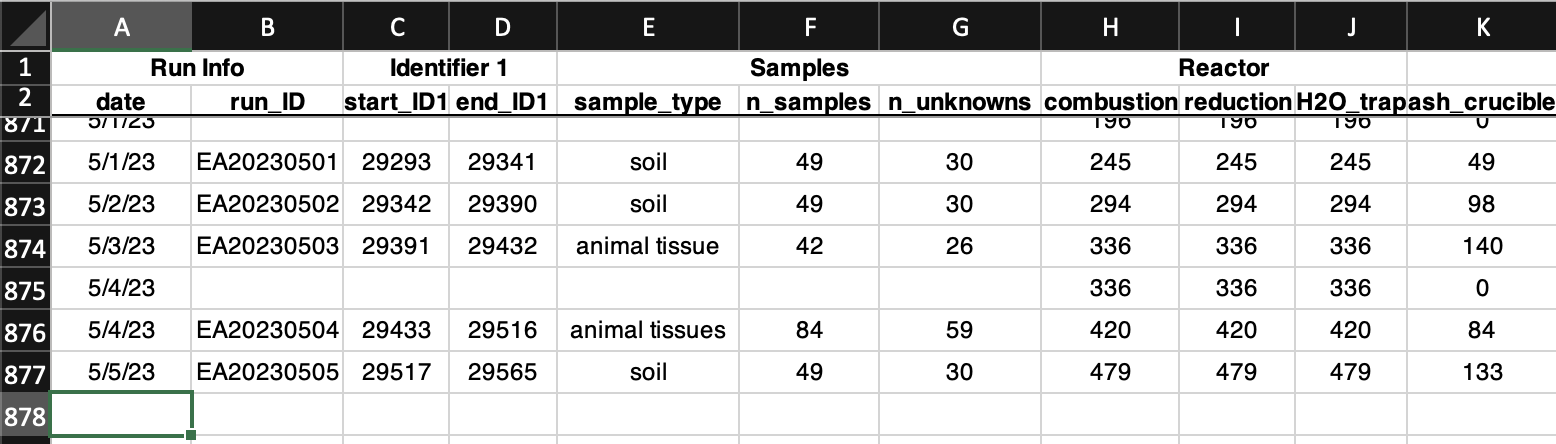
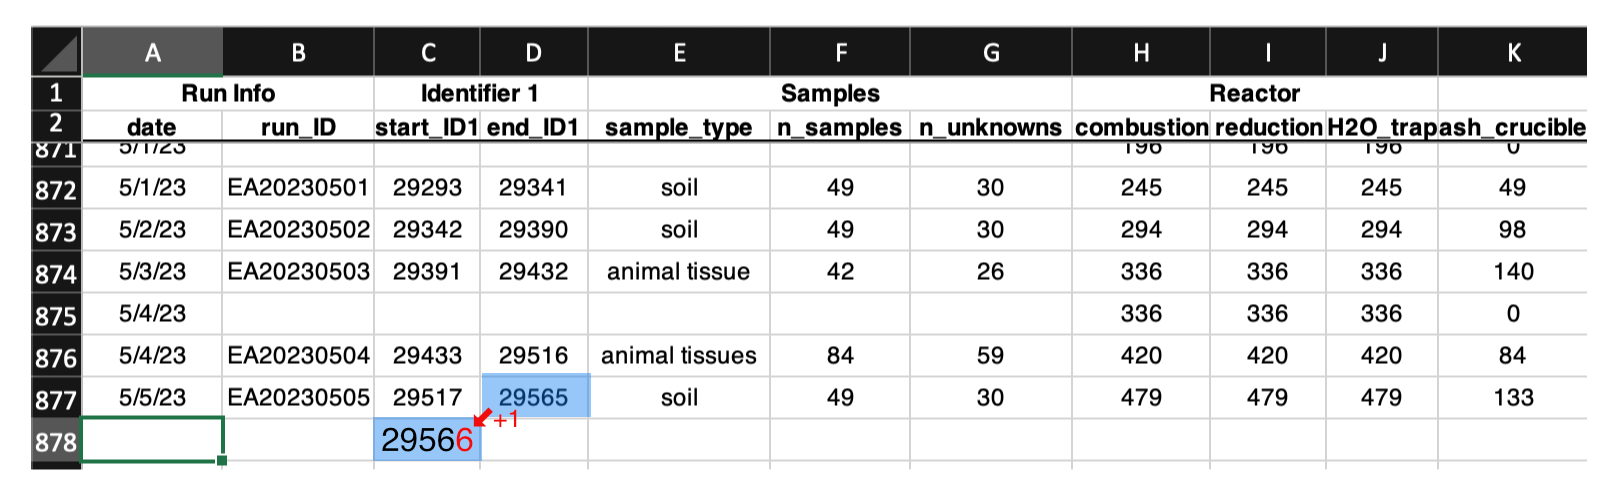
working on sequence

diff --git a/isodat/isodat_sequence.md b/isodat/isodat_sequence.md
@@ -8,9 +8,6 @@ Please contact the Stable Isotope Ecology Laboratory Technical Director with any
 
 ## Supplies
 
-- [ ] Gloves
-- [ ] Forceps
-- [ ] Tray of fully prepared samples
 - [ ] Typed weight sheet using the one of *SIELO weigh sheet templates* 
 
 *** 
@@ -21,11 +18,20 @@ An *Isodat sequence* file is required for all analyses on the Costech 4010, Ther
 
 ## Instrument Run Logs
 
+- [ ] Finished
+
 Each instrument has an *Instrument Run Log* excel file located in `~/Box Sync/Instrument Run Logs/`. There are two log files, one for each Delta V+ mass spectrometer. **All analyses** must be entered into the appropriate *Instrument Run Log*.
 
- ![](../figures/isodat/run_log.png)
- *run log*
+Setting up an Isodat sequence begins by starting a new row in the appropriate *Instrument Run Log*. Each new row starts with a the `date` of analysis and creating a new `run_ID`.
 
-Setting up an Isodat sequence begins by starting a new row in the appropriate *Instrument Run Log*. 
-   
+* In the `date` cell enter the date in `day/month/year` format.
+* The `run_ID` is the name of the instrument (`EA`, `GB`, `TCEA`, `GCC`) followed by the date in `year-month-day` order. For example a set of samples analyzed on September 10, 2021 using the Costech 4010 would be named `EA202109010`. 
+
+- [ ] Finished
+
+Each analysis within a run is also given a unique identifier number referred to as `Identifier 1`. 
+* in the `start_ID1` field enter the first `Identifier 1` number for your run. This number is the `end_ID1` from the previous row +1.
+
+ ![](../figures/isodat/run_log.png)
+ *The first columns of the Costech 4010 Instrument Run Log, showing the creation of a new set of Identifier 1 numbers.s* 
   
